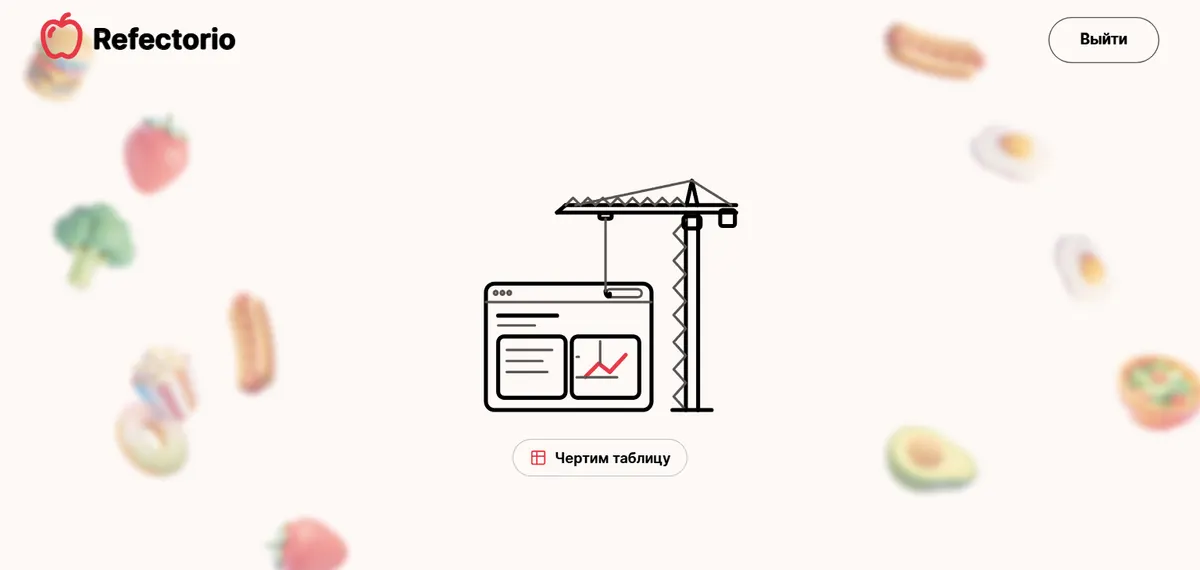
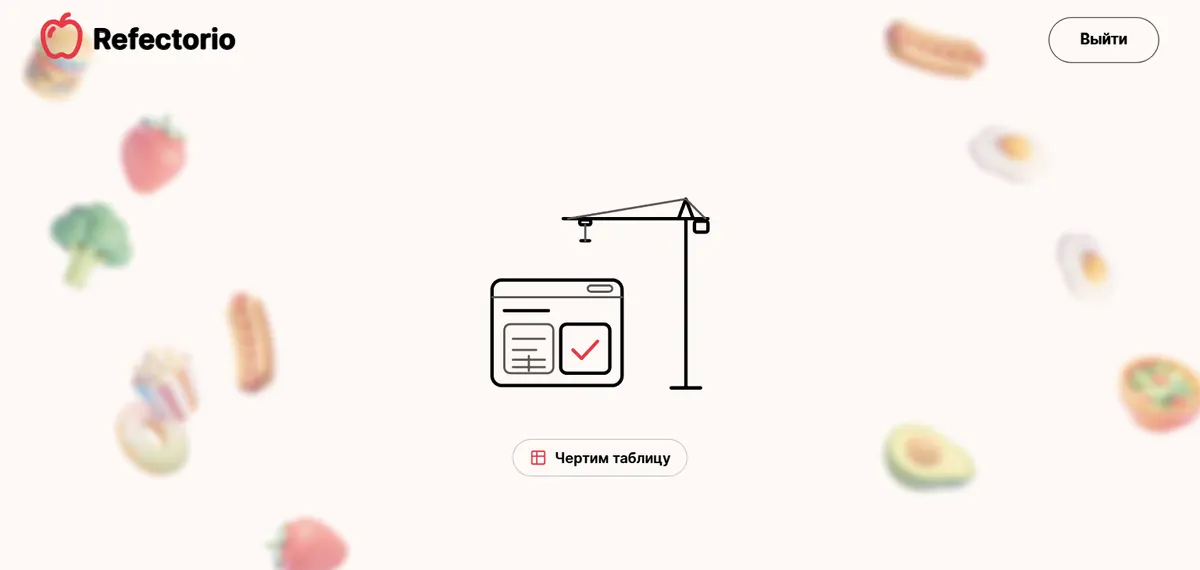
docs: ADR 0012 for the redrawn story, fresh README screenshots (dish card with its numbers, the finale)

diff --git a/docs/adr/0012-generation-story.md b/docs/adr/0012-generation-story.md
@@ -17,8 +17,8 @@
 1. **Canvas 2D, один `requestAnimationFrame`, DPR ≤ 2, `aria-hidden`.** Подписи остаются живой областью. Пауза при
    `document.hidden` и под честной строкой (WCAG 2.2.2). SVG не нужен: ≈ 3 000 точек линий и ≤ 240 точек облака за
    кадр Canvas рисует быстрее, чем DOM пересчитывает SVG.
-2. **Рисунки — оригинальные линии в квадрате 512 единиц** (`scripts/story/drawings.mjs`): одна пара толщин (6,5 и
-   4 единицы), круглые концы, палитра сайта (чёрный, `#5A5451`, акцент `#E63946`). Кривые разворачиваются в ломаные
+2. **Рисунки — оригинальные линии в квадрате 512 единиц** (`scripts/story/drawings.mjs`): на сетке, симметричные,
+   внутри безопасной зоны ±176 (сборка проверяет); одна пара толщин (5,5 и 3,5 единицы), круглые концы, палитра сайта (чёрный, `#5A5451`, акцент `#E63946`). Кривые разворачиваются в ломаные
    **при сборке** (`npm run story`): координаты по 1/8 единицы, int16, разности — `story-data.json` (12,5 КБ gz на пять
    рисунков). Там же два облака по 240 точек на рисунок: «из чего он собирается» (только видимые сначала линии) и «во
    что рассыпается» (все). В браузере пути не измеряются.
@@ -26,14 +26,15 @@
    строкам с паузами между словами и «прыжками» на новую строку, лупа по дуге с наклоном, стрела крана «доворачивается»
    к нам — сжатие по x, — трос, раскачка груза с затуханием, сплющивание блока при посадке, кочка под роботом, крышка на
    петле, язычки пламени). Последний кадр каждой сцены совпадает с первым кадром её облака «на выход».
-4. **Превращение** (`morph.ts`, 1,5 с): старый рисунок гаснет, на его линиях появляются точки; оба облака
-   упорядочены по углу вокруг центра, пары — по порядку, поэтому поток поворачивается как одно целое; точки уходят волной
-   по кругу (0,36 с), летят по квадратичным дугам, изогнутым в одну сторону, со «следом» (короткая капсула вдоль
-   скорости — растяжение), гаснут при посадке, новый рисунок дорисовывается волной.
+4. **Превращение** (`morph.ts`, 1,7 с) — три такта: старый рисунок гаснет, на его линиях появляются точки; точки
+   собираются в кольцо — каждая в ячейку своего угла вокруг центра, поэтому поток радиальный и спокойный; кольцо один
+   раз поворачивается и чуть «дышит»; затем раскрывается в точки нового рисунка с лёгким перелётом, и рисунок
+   дорисовывается волной. Все точки — акцентного цвета, одного размера.
 5. **Временная шкала** (`timeline.ts`, юнит-тесты): сцены и превращения подряд, последняя сцена — петля; подписи —
    метки внутри сцен. Первый проход ≈ 27,9 с. Тестовый крючок `?story=<сцена>` (только тестовые сборки).
-6. **Точки** (по видео команды): шар из колец-параллелей, вращение вокруг своей оси, ось наклоняется — то серп, то
-   диск; ближние точки крупнее и ярче (акцент), дальние мельче; сзади мягкое свечение — радиальный градиент, не blur.
+6. **Точки** (по видео команды): шар белых точек из колец-параллелей, вращение вокруг своей оси, ось наклоняется — то
+   серп, то диск; ближние точки крупнее; сзади два мягких пятна свечения акцента, смещающиеся к ближней стороне шара
+   (радиальные градиенты до прозрачного акцента, не blur).
 7. **Передача от полосы прогресса** — как на этапе 2 (полоса сжимается в точку и летит в центр), точка становится
    кончиком карандаша. Передача запускается один раз (раньше вторая точка пролетала поверх).
 8. **Адаптивное качество:** если кадры в среднем дольше 20 мс, следующие превращения идут с половиной точек.
